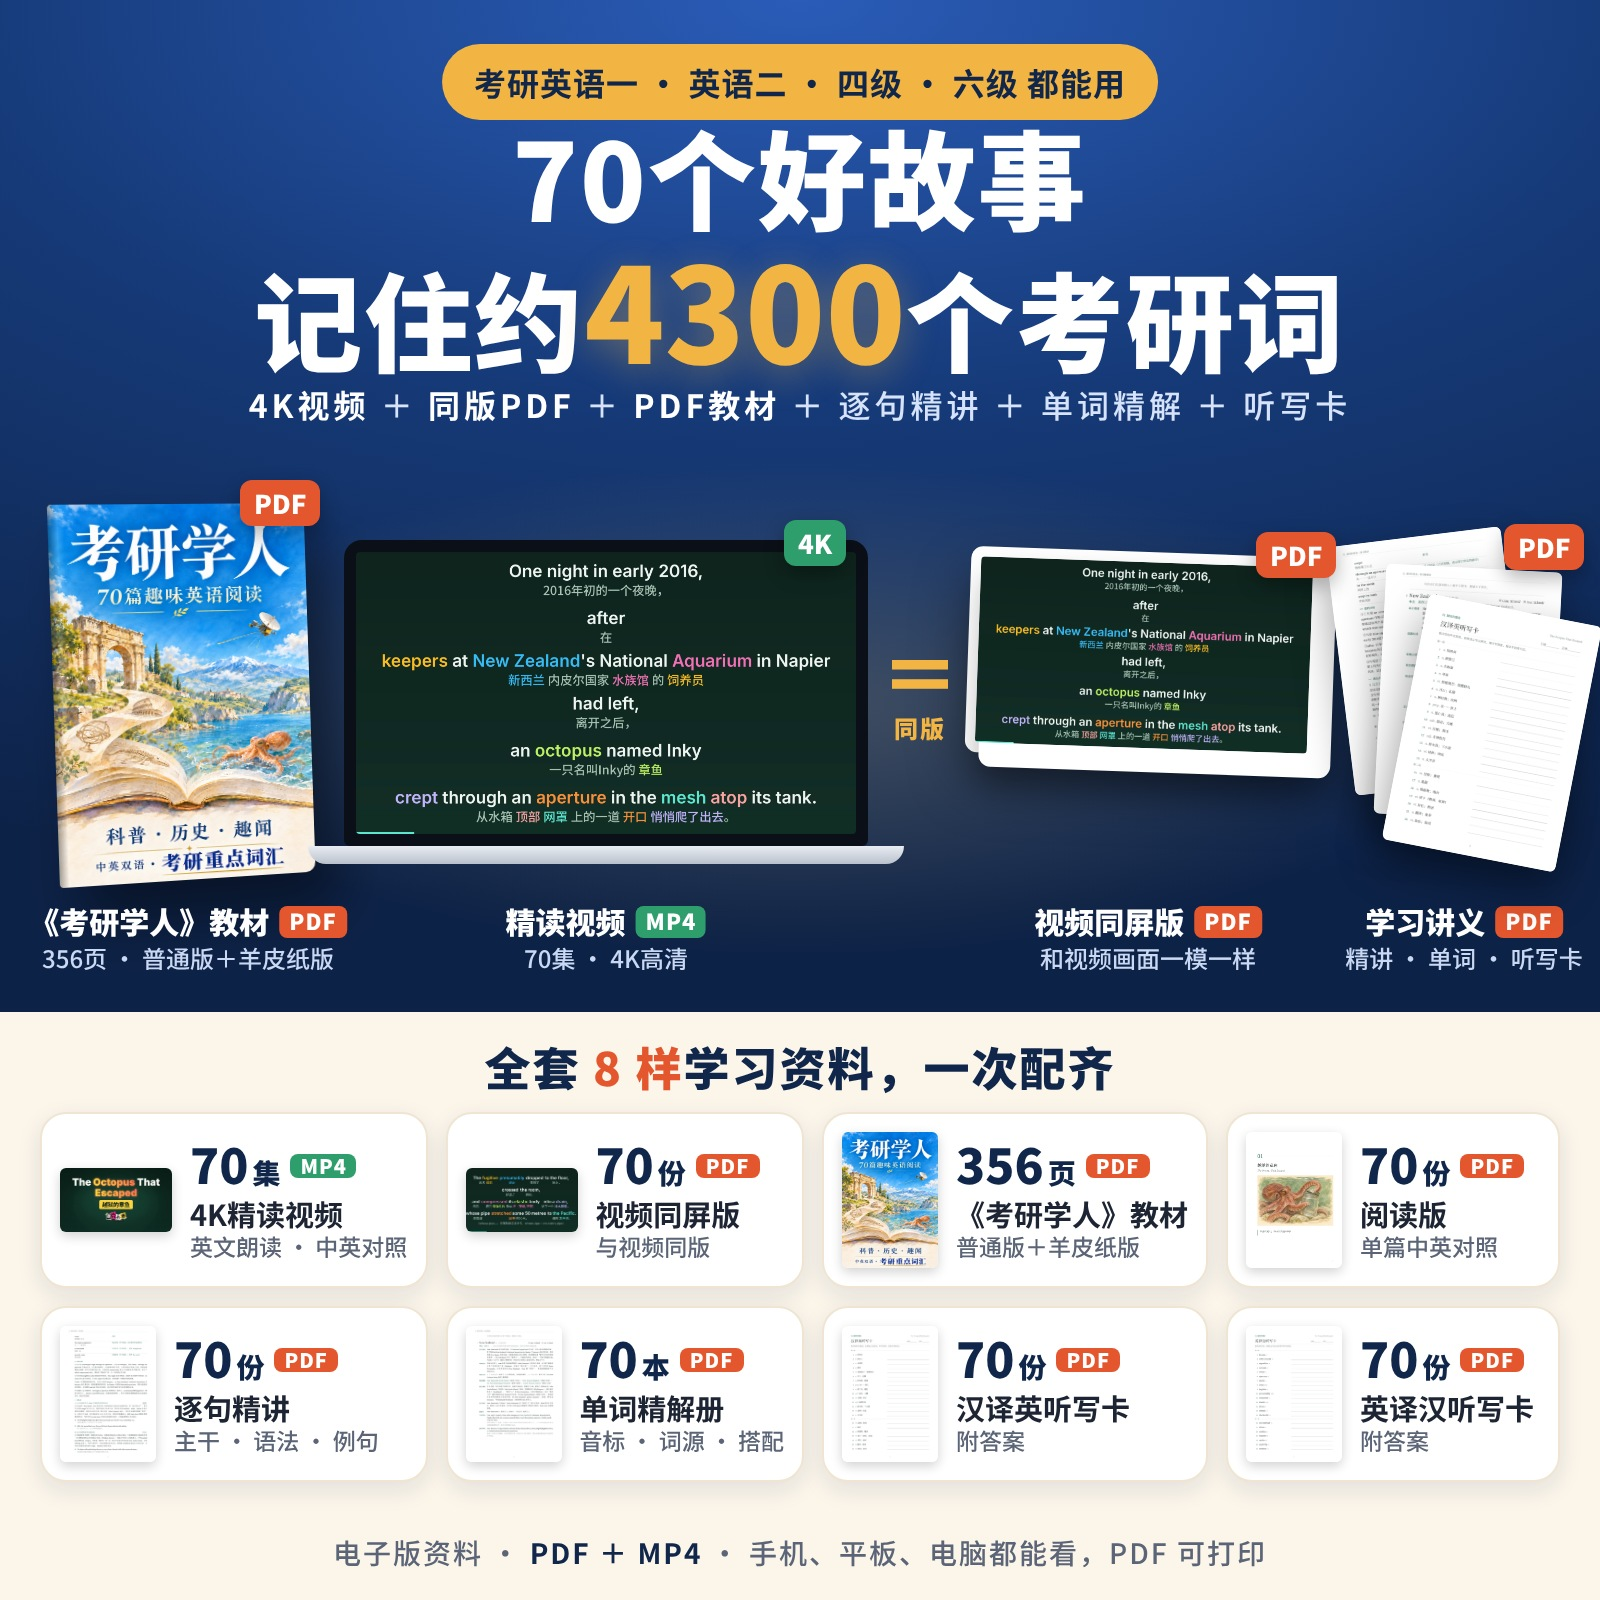
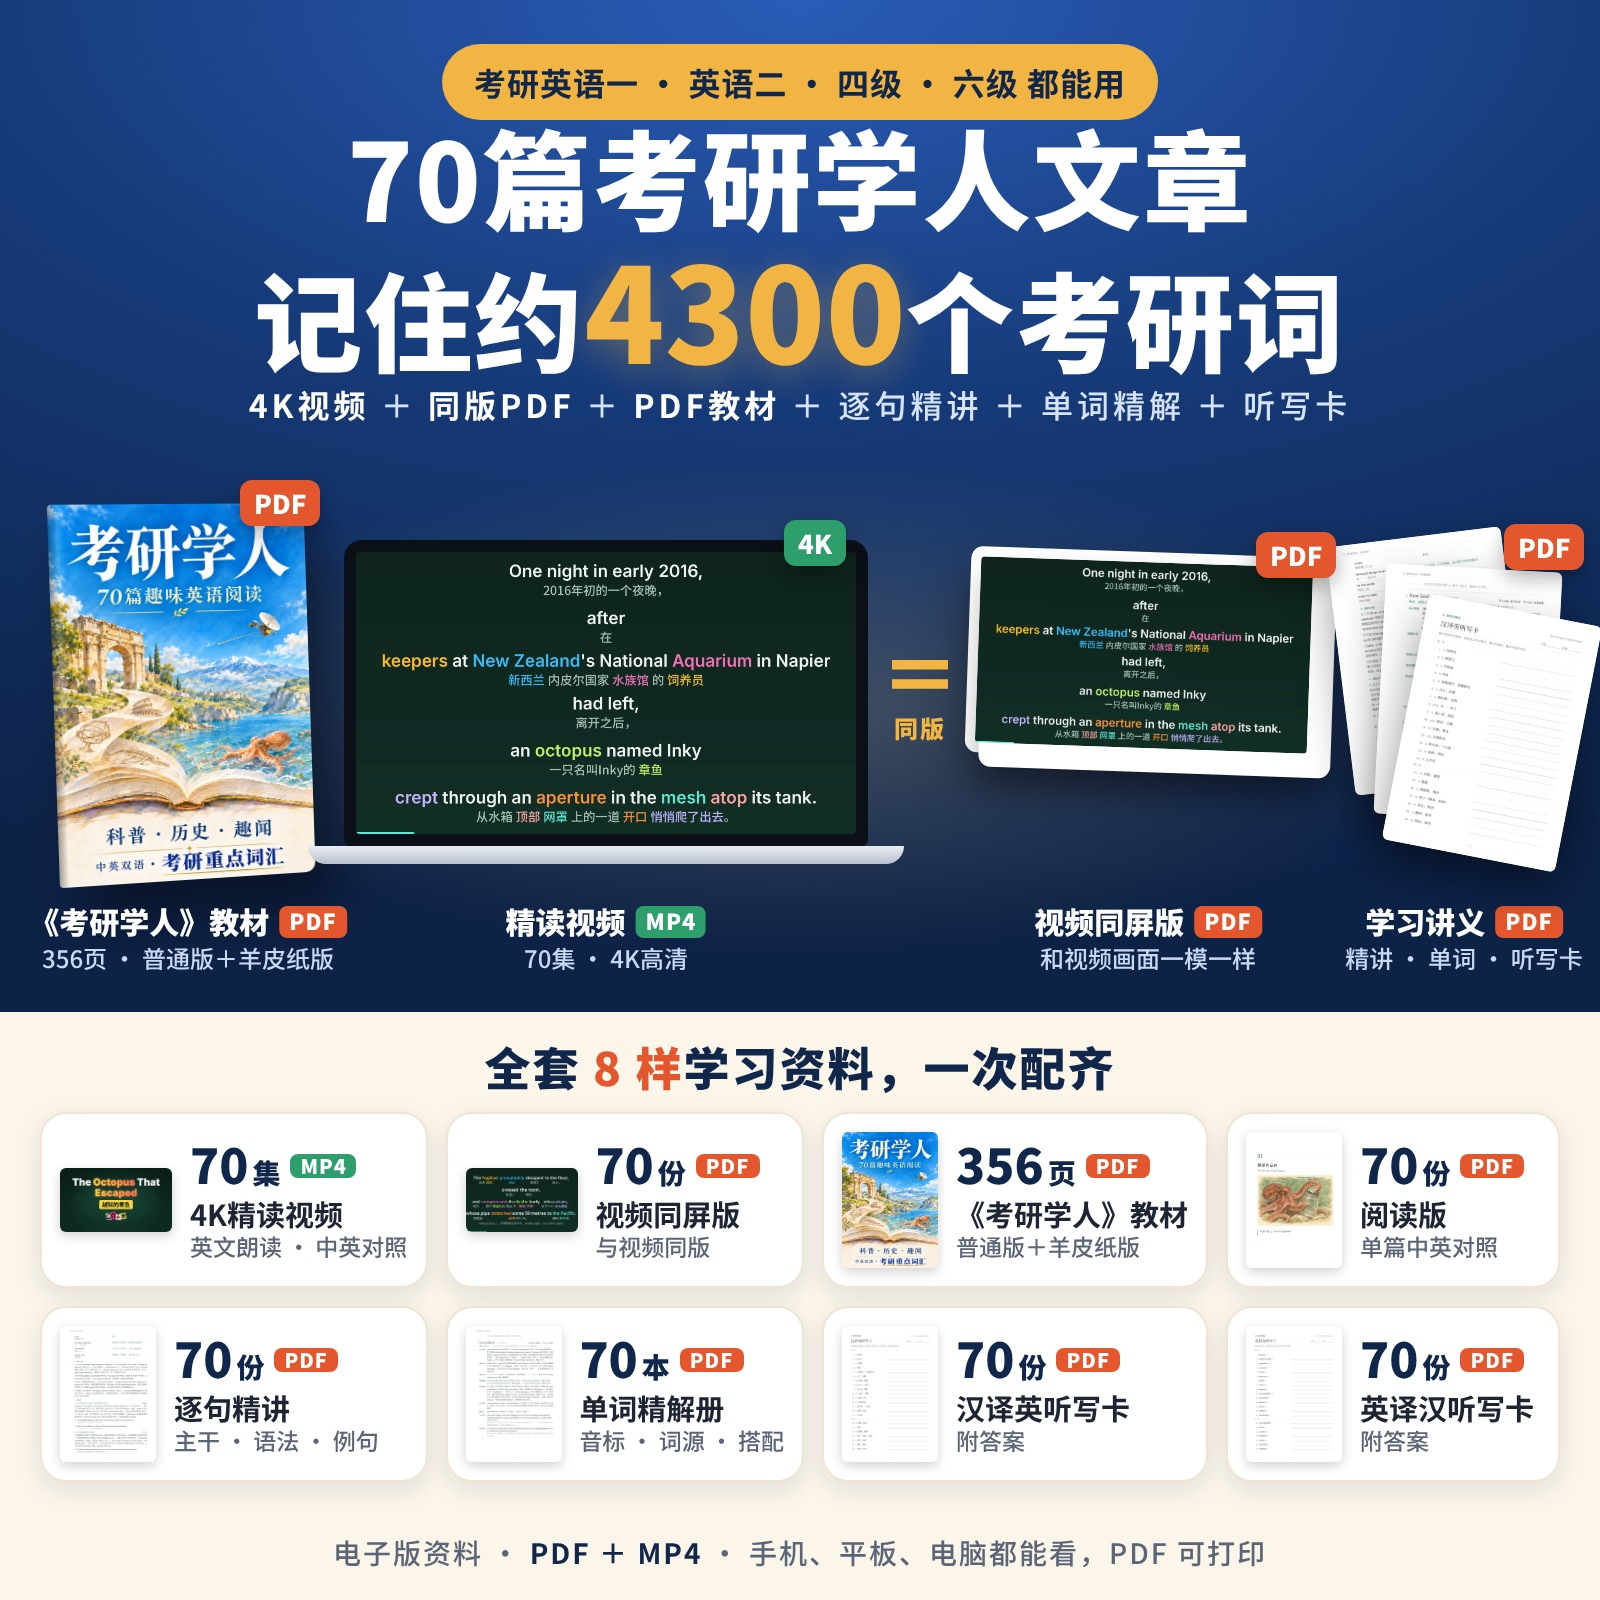
商品图：主图标题改为“70篇考研学人文章”；第 2 张“追故事”改为“进入一个奇妙的世界”
Claude-Session: https://claude.ai/code/session_018Kg61y5YeZxoNzSXSuyt8u

Changed region(s): [[0.2188, 0.0625, 0.7812, 0.1562]]

diff --git a/推广文案/商品图-2026-11-17/制作源文件/2.html b/推广文案/商品图-2026-11-17/制作源文件/2.html
@@ -3,7 +3,7 @@
 <style>
 body { background: linear-gradient(180deg, #fbf5ea 0%, #f6ecd9 100%); }
 .no { position: absolute; left: 40px; top: 34px; font-weight: 900; font-size: 15px; color: #fff; background: var(--blue); padding: 5px 12px; border-radius: 8px; letter-spacing: 1px; }
-.h { position: absolute; left: 40px; top: 70px; font-weight: 900; font-size: 50px; color: var(--navy); letter-spacing: 1px; line-height: 1.15; }
+.h { position: absolute; left: 40px; top: 74px; font-weight: 900; font-size: 44px; white-space: nowrap; color: var(--navy); letter-spacing: 1px; line-height: 1.15; }
 .h span { color: var(--red); }
 .s { position: absolute; left: 42px; top: 136px; font-size: 18px; color: var(--muted); letter-spacing: 1px; }
 .s b { color: var(--navy); font-weight: 700; }
@@ -25,7 +25,7 @@ body { background: linear-gradient(180deg, #fbf5ea 0%, #f6ecd9 100%); }
 </style></head>
 <body><div class="canvas">
   <div class="no">卖点 1</div>
-  <div class="h">不是背词表，是<span>追故事</span></div>
+  <div class="h">不是背词表，是<span>进入一个奇妙的世界</span></div>
   <div class="s">70篇真实故事 · <b>科普 · 历史 · 趣闻</b> · 单词跟着故事一起记</div>
   <div class="grid">
     <div class="card"><img src="../assets/ill01.jpg"><div class="cap"><i>01</i>越狱的章鱼</div></div>

diff --git a/推广文案/商品图-2026-11-17/制作源文件/1.html b/推广文案/商品图-2026-11-17/制作源文件/1.html
@@ -63,7 +63,7 @@
 <body><div class="canvas">
   <div class="top"></div>
   <div class="pill tag">考研英语一 · 英语二 · 四级 · 六级 都能用</div>
-  <div class="h1"><div class="l1">70个好故事</div><div class="l2">记住约<span class="num">4300</span>个考研词</div></div>
+  <div class="h1"><div class="l1">70篇考研学人文章</div><div class="l2">记住约<span class="num">4300</span>个考研词</div></div>
   <div class="sub"><b>4K视频</b> ＋ <b>同版PDF</b> ＋ <b>PDF教材</b> ＋ 逐句精讲 ＋ 单词精解 ＋ 听写卡</div>
 
   <div class="obj book"><img src="../assets/cover.jpg"></div>

diff --git a/推广文案/商品图-2026-11-17/README.md b/推广文案/商品图-2026-11-17/README.md
@@ -8,8 +8,8 @@
 
 | 序号 | 文件 | 内容 |
 |---|---|---|
-| 1 | 1 主图 全套包含 | 标题“70个好故事 记住约4300个考研词”；一排逐样标明：《考研学人》PDF 教材、4K 视频（MP4）、与视频同版的视频同屏版 PDF、精讲单词听写 PDF；下方 8 格列全套资料，每格标 PDF 或 MP4 |
-| 2 | 2 卖点 追故事 | 9 篇故事插图和题目；底部横幅写明 70 个故事全部收进《考研学人》PDF 教材（356 页，普通版＋羊皮纸版） |
+| 1 | 1 主图 全套包含 | 标题“70篇考研学人文章 记住约4300个考研词”（用户 2026-11-17 要求由“70个好故事”改）；一排逐样标明：《考研学人》PDF 教材、4K 视频（MP4）、与视频同版的视频同屏版 PDF、精讲单词听写 PDF；下方 8 格列全套资料，每格标 PDF 或 MP4 |
+| 2 | 2 卖点 进入一个奇妙的世界 | 标题“不是背词表，是进入一个奇妙的世界”（用户 2026-11-17 要求由“追故事”改）；9 篇故事插图和题目；底部横幅写明 70 个故事全部收进《考研学人》PDF 教材（356 页，普通版＋羊皮纸版） |
 | 3 | 3 卖点 4K精读视频 | 视频真实画面：英文朗读、中英逐块对照、重点词高亮、难句小注；写明每集都配同版 PDF |
 | 4 | 4 卖点 逐句精讲与单词精解 | 第 1 篇实际内页：主干成分、英美音标、本文语境、词源等 |
 | 5 | 5 卖点 听写卡自测 | 两张听写卡；示例词条与第 1 篇数据逐字一致 |
